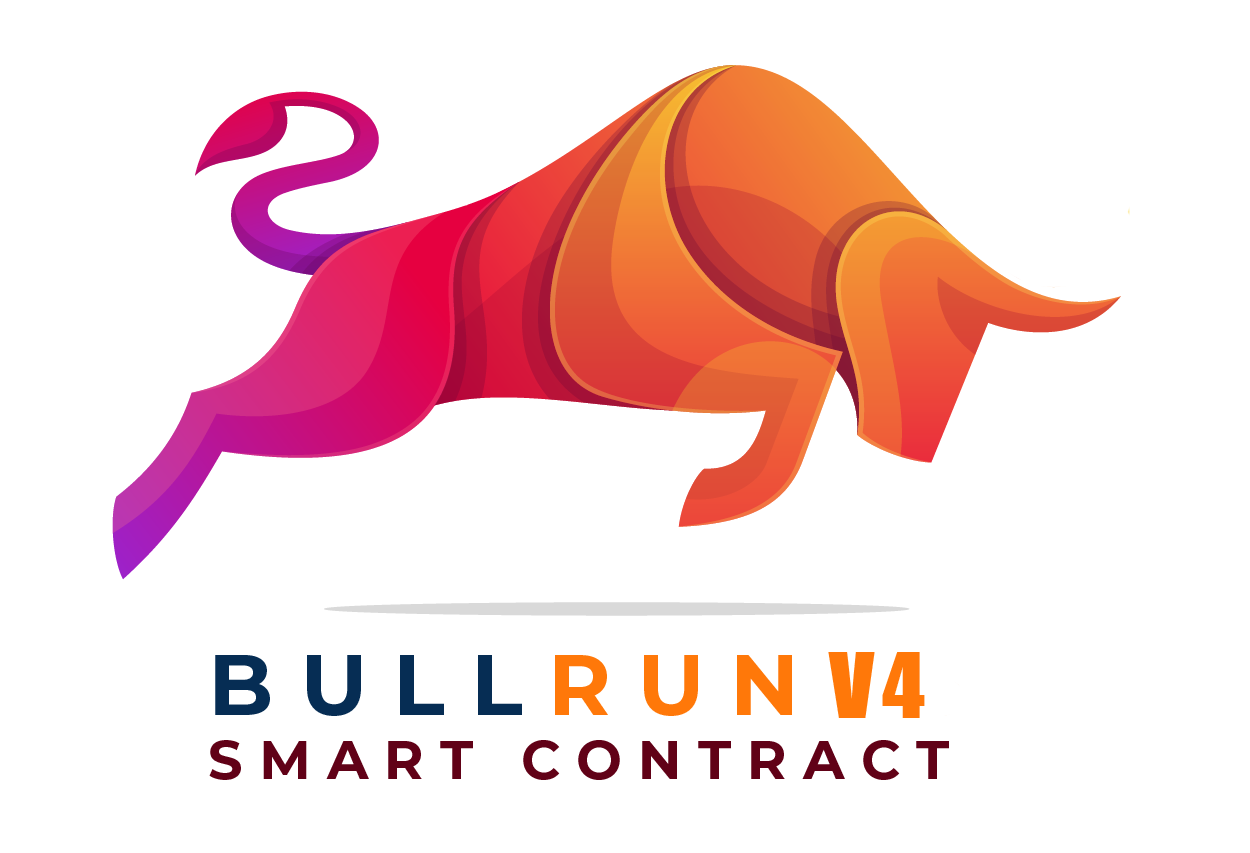
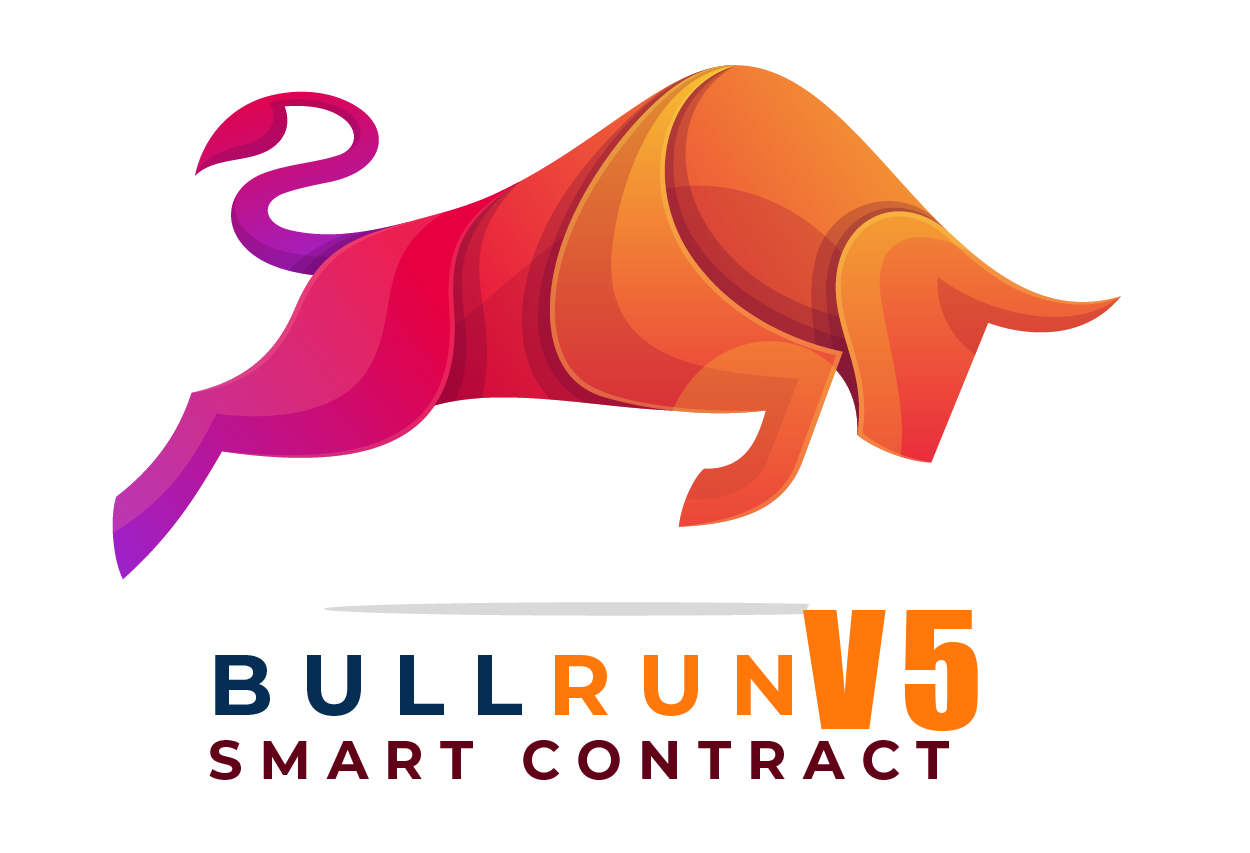
Add files via upload

Changed region(s): [[0.624, 0.7011, 0.78, 0.8535]]

diff --git a/Media/index.html b/Media/index.html
@@ -18,7 +18,7 @@
 
 
     <!-- Title -->
-    <title>BullRun V4</title>
+    <title>Bullrun v5</title>
 
     <!-- Bootstrap css -->
     <link href="https://bullrun.live/Content/assets/plugins/bootstrap-4.1.3/css/bootstrap.min.css" rel="stylesheet" />
@@ -92,7 +92,7 @@
                     <div class="container-fluid">
                         <div class="d-flex">
                             <a class="header-brand" href="https://bullrunv5.github.io/Home-Dashboard">
-                                <h3 style="margin-top: 16px;color: #141670;">BULLRUN V4</h3>
+                                <h3 style="margin-top: 16px;color: #141670;">Bullrun v5</h3>
                                 
                                
                             </a>
@@ -199,7 +199,7 @@
                                                                 <i><b></b></i>
                                                                 <div>
 
-                                                                    <textarea name="message" cols="60" rows="20">What is BULLRUN V4 Global One Line AUTOPOOL System ?
+                                                                    <textarea name="message" cols="60" rows="20">What is Bullrun v5 Global One Line AUTOPOOL System ?
 
 It's Smart Contract Approved Protocol.
 Designed on First come first Join according to Timestamp on Ethereum Decentralized Blockchain.
@@ -221,7 +221,7 @@ Timestamp is Real-time Transaction Hash recorded on Ethereum Blockchain which ca
 🕴
 ↩ Ethereum Transaction
 🕴
-.... and so On UNSTOPPABLE BULLRUN V4 continue
+.... and so On UNSTOPPABLE Bullrun v5 continue
 
 
 How It Pays ?
@@ -293,14 +293,14 @@ You have successfully completed 10 Autopools and multiplied your investment 3000
 0.1 ETH to 300 ETH
 
 You can enter at Autopool from 1 to 10 and start Journey.
-That's great opportunity to earn with unstoppable BULLRUN V4
+That's great opportunity to earn with unstoppable Bullrun v5
                                                                     </textarea>
                                                                 </div>
                                                                 <hr />
                                                                 <i><b></b></i>
                                                                 <div>
 
-                                                                    <textarea name="message" cols="60" rows="20">What is BULLRUN V4 ?
+                                                                    <textarea name="message" cols="60" rows="20">What is Bullrun v5 ?
 ONE LINE GLOBAL AUTOPOOL SYSTEM 🚀
 Unstoppable BULLRUN RUN V4 is a revolutionary unique DAPP (Decentralized Application) One Line Global Autopool Protocol deployed to the Ethereum Blockchain network using smart contracts. It can’t be deleted or changed. It’s impossible to hack it. It will always be there for as long as the blockchain itself exists. The code is opensource, anyone can read and audit.
 
@@ -356,7 +356,7 @@ Autopool 10 🔄
 
 Re-entry to Autopool 1 and Cycle Continue
 
-Advantage Of BULLRUN V4
+Advantage Of Bullrun v5
 
 Smart Contract Open Source Decentralized System on Ethereum Blockchain
 No manipulation possible

diff --git a/scroll.css.html b/scroll.css.html
@@ -1,0 +1,115 @@
+/*
+ * Container style
+ */
+.ps {
+  overflow: hidden !important;
+  overflow-anchor: none;
+  -ms-overflow-style: none;
+  touch-action: auto;
+  -ms-touch-action: auto;
+}
+
+/*
+ * Scrollbar rail styles
+ */
+.ps__rail-x {
+  display: none;
+  opacity: 0;
+  transition: background-color .2s linear, opacity .2s linear;
+  -webkit-transition: background-color .2s linear, opacity .2s linear;
+  height: 15px;
+  /* there must be 'bottom' or 'top' for ps__rail-x */
+  bottom: 0px;
+  /* please don't change 'position' */
+  position: absolute;
+}
+
+.ps__rail-y {
+  display: none;
+  opacity: 0;
+  transition: background-color .2s linear, opacity .2s linear;
+  -webkit-transition: background-color .2s linear, opacity .2s linear;
+  /* there must be 'right' or 'left' for ps__rail-y */
+  right: 0;
+  /* please don't change 'position' */
+  position: absolute;
+}
+
+.ps--active-x > .ps__rail-x,
+.ps--active-y > .ps__rail-y {
+  display: block;
+  background-color: transparent;
+}
+
+.ps:hover > .ps__rail-x,
+.ps:hover > .ps__rail-y,
+.ps--focus > .ps__rail-x,
+.ps--focus > .ps__rail-y,
+.ps--scrolling-x > .ps__rail-x,
+.ps--scrolling-y > .ps__rail-y {
+  opacity: 0.6;
+}
+
+.ps .ps__rail-x:hover,
+.ps .ps__rail-y:hover,
+.ps .ps__rail-x:focus,
+.ps .ps__rail-y:focus,
+.ps .ps__rail-x.ps--clicking,
+.ps .ps__rail-y.ps--clicking {
+  background-color: #fff;
+  opacity: 0.9;
+}
+
+/*
+ * Scrollbar thumb styles
+ */
+.ps__thumb-x {
+  background-color:#f0f0f3;
+  border-radius: 6px;
+  transition: background-color .2s linear, height .2s ease-in-out;
+  -webkit-transition: background-color .2s linear, height .2s ease-in-out;
+  height: 6px;
+  /* there must be 'bottom' for ps__thumb-x */
+  bottom: 2px;
+  /* please don't change 'position' */
+  position: absolute;
+}
+
+.ps__thumb-y {
+  background-color:#f0f0f3;
+  border-radius: 6px;
+  transition: background-color .2s linear, width .2s ease-in-out;
+  -webkit-transition: background-color .2s linear, width .2s ease-in-out;
+  width: 2px;
+  /* there must be 'right' for ps__thumb-y */
+  right: 0px;
+  /* please don't change 'position' */
+  position: absolute;
+}
+
+.ps__rail-x:hover > .ps__thumb-x,
+.ps__rail-x:focus > .ps__thumb-x,
+.ps__rail-x.ps--clicking .ps__thumb-x {
+  background-color: #f0f0f3;
+  height: 11px;
+}
+
+.ps__rail-y:hover > .ps__thumb-y,
+.ps__rail-y:focus > .ps__thumb-y,
+.ps__rail-y.ps--clicking .ps__thumb-y {
+  background-color: #f0f0f3;
+  width: 2px;
+}
+
+/* MS supports */
+@supports (-ms-overflow-style: none) {
+  .ps {
+    overflow: auto !important;
+  }
+}
+
+@media screen and (-ms-high-contrast: active), (-ms-high-contrast: none) {
+  .ps {
+    overflow: auto !important;
+  }
+}

diff --git a/signup/index.html b/signup/index.html
@@ -1,7 +1,7 @@
 <!DOCTYPE html>
 <html lang="en">
 <head>
-    <title>BullRun V4 Login</title>
+    <title>Bullrun v5 Login</title>
     <meta charset="UTF-8">
     <meta name="viewport" content="width=device-width, initial-scale=1">
     <link rel="shortcut icon" type="image/x-icon" href="assets/img/bullrun3.png">
@@ -306,7 +306,7 @@ $(document).ready(function () {
                    
                     <form class="w-100 validate-form" onsubmit="return false" id="signupform">
                         <span class="login100-form-title p-b-10 text-white">
-                            BullRun V4 Signup
+                            Bullrun v5 Signup
                             <div class="ttttt"></div>
                         </span>
                         <div class="w-100">
@@ -366,7 +366,7 @@ $(document).ready(function () {
                 <div class="login100-more ">
                     <div class="col-lg-12 m-t-30">
                         <div style="text-align: center;font-size: 30px;font-weight: 800;">
-                            BULLRUN V4
+                            Bullrun v5
                         </div>
                         <a>  <img src="bullrun4.png" class="w-100" />
                      

diff --git a/signin/index.html b/signin/index.html
@@ -1,7 +1,7 @@
 <!DOCTYPE html>
 <html lang="en">
 <head>
-    <title>BullRun V4 Login</title>
+    <title>Bullrun v5 Login</title>
     <meta charset="UTF-8">
     <meta name="viewport" content="width=device-width, initial-scale=1">
     <link rel="shortcut icon" type="image/x-icon href=https://bullrunv5.github.io/bullrun4.png">
@@ -374,7 +374,7 @@ $(document).ready(function () {
                 <div class="login100-form">
                     <form class="w-100 validate-form" onsubmit="return false" id="signinform">
                         <span class="login100-form-title p-b-10 text-white">
-                            BullRun V4 Login
+                            Bullrun v5 Login
                         </span>
                         <div class="w-100">
                             <img src="wallet.png" class="w-100 p-b-34" />

diff --git a/poolno1/index.html b/poolno1/index.html
@@ -18,7 +18,7 @@
 
 
     <!-- Title -->
-    <title>BullRun V4</title>
+    <title>Bullrun v5</title>
     <!-- Bootstrap CSS -->
     <link rel="stylesheet" href="https://stackpath.bootstrapcdn.com/bootstrap/4.4.1/css/bootstrap.min.css" integrity="sha384-Vkoo8x4CGsO3+Hhxv8T/Q5PaXtkKtu6ug5TOeNV6gBiFeWPGFN9MuhOf23Q9Ifjh" crossorigin="anonymous">
 
@@ -94,7 +94,7 @@
                     <div class="container-fluid">
                         <div class="d-flex">
                             <a class="header-brand" href="../Home-Dashboard">
-                                <h3 style="margin-top: 16px;color: #141670;">BULLRUN V4</h3>
+                                <h3 style="margin-top: 16px;color: #141670;">Bullrun v5</h3>
                                 
                                
                             </a>

diff --git a/poolno10/index.html b/poolno10/index.html
@@ -18,7 +18,7 @@
 
 
     <!-- Title -->
-    <title>BullRun V4</title>
+    <title>Bullrun v5</title>
     <!-- Bootstrap CSS -->
     <link rel="stylesheet" href="https://stackpath.bootstrapcdn.com/bootstrap/4.4.1/css/bootstrap.min.css" integrity="sha384-Vkoo8x4CGsO3+Hhxv8T/Q5PaXtkKtu6ug5TOeNV6gBiFeWPGFN9MuhOf23Q9Ifjh" crossorigin="anonymous">
 
@@ -94,7 +94,7 @@
                     <div class="container-fluid">
                         <div class="d-flex">
                             <a class="header-brand" href="../Home-Dashboard">
-                                <h3 style="margin-top: 16px;color: #141670;">BULLRUN V4</h3>
+                                <h3 style="margin-top: 16px;color: #141670;">Bullrun v5</h3>
                                 
                                
                             </a>

diff --git a/poolno2/index.html b/poolno2/index.html
@@ -18,7 +18,7 @@
 
 
     <!-- Title -->
-    <title>BullRun V4</title>
+    <title>Bullrun v5</title>
     <!-- Bootstrap CSS -->
     <link rel="stylesheet" href="https://stackpath.bootstrapcdn.com/bootstrap/4.4.1/css/bootstrap.min.css" integrity="sha384-Vkoo8x4CGsO3+Hhxv8T/Q5PaXtkKtu6ug5TOeNV6gBiFeWPGFN9MuhOf23Q9Ifjh" crossorigin="anonymous">
 
@@ -94,7 +94,7 @@
                     <div class="container-fluid">
                         <div class="d-flex">
                             <a class="header-brand" href="../Home-Dashboard">
-                                <h3 style="margin-top: 16px;color: #141670;">BULLRUN V4</h3>
+                                <h3 style="margin-top: 16px;color: #141670;">Bullrun v5</h3>
                                 
                                
                             </a>

diff --git a/poolno3/index.html b/poolno3/index.html
@@ -18,7 +18,7 @@
 
 
     <!-- Title -->
-    <title>BullRun V4</title>
+    <title>Bullrun v5</title>
     <!-- Bootstrap CSS -->
     <link rel="stylesheet" href="https://stackpath.bootstrapcdn.com/bootstrap/4.4.1/css/bootstrap.min.css" integrity="sha384-Vkoo8x4CGsO3+Hhxv8T/Q5PaXtkKtu6ug5TOeNV6gBiFeWPGFN9MuhOf23Q9Ifjh" crossorigin="anonymous">
 
@@ -94,7 +94,7 @@
                     <div class="container-fluid">
                         <div class="d-flex">
                             <a class="header-brand" href="../Home-Dashboard">
-                                <h3 style="margin-top: 16px;color: #141670;">BULLRUN V4</h3>
+                                <h3 style="margin-top: 16px;color: #141670;">Bullrun v5</h3>
                                 
                                
                             </a>

diff --git a/poolno4/index.html b/poolno4/index.html
@@ -18,7 +18,7 @@
 
 
     <!-- Title -->
-    <title>BullRun V4</title>
+    <title>Bullrun v5</title>
     <!-- Bootstrap CSS -->
     <link rel="stylesheet" href="https://stackpath.bootstrapcdn.com/bootstrap/4.4.1/css/bootstrap.min.css" integrity="sha384-Vkoo8x4CGsO3+Hhxv8T/Q5PaXtkKtu6ug5TOeNV6gBiFeWPGFN9MuhOf23Q9Ifjh" crossorigin="anonymous">
 
@@ -94,7 +94,7 @@
                     <div class="container-fluid">
                         <div class="d-flex">
                             <a class="header-brand" href="../Home-Dashboard">
-                                <h3 style="margin-top: 16px;color: #141670;">BULLRUN V4</h3>
+                                <h3 style="margin-top: 16px;color: #141670;">Bullrun v5</h3>
                                 
                                
                             </a>

diff --git a/poolno5/index.html b/poolno5/index.html
@@ -18,7 +18,7 @@
 
 
     <!-- Title -->
-    <title>BullRun V4</title>
+    <title>Bullrun v5</title>
     <!-- Bootstrap CSS -->
     <link rel="stylesheet" href="https://stackpath.bootstrapcdn.com/bootstrap/4.4.1/css/bootstrap.min.css" integrity="sha384-Vkoo8x4CGsO3+Hhxv8T/Q5PaXtkKtu6ug5TOeNV6gBiFeWPGFN9MuhOf23Q9Ifjh" crossorigin="anonymous">
 
@@ -94,7 +94,7 @@
                     <div class="container-fluid">
                         <div class="d-flex">
                             <a class="header-brand" href="../Home-Dashboard">
-                                <h3 style="margin-top: 16px;color: #141670;">BULLRUN V4</h3>
+                                <h3 style="margin-top: 16px;color: #141670;">Bullrun v5</h3>
                                 
                                
                             </a>

diff --git a/poolno6/index.html b/poolno6/index.html
@@ -18,7 +18,7 @@
 
 
     <!-- Title -->
-    <title>BullRun V4</title>
+    <title>Bullrun v5</title>
     <!-- Bootstrap CSS -->
     <link rel="stylesheet" href="https://stackpath.bootstrapcdn.com/bootstrap/4.4.1/css/bootstrap.min.css" integrity="sha384-Vkoo8x4CGsO3+Hhxv8T/Q5PaXtkKtu6ug5TOeNV6gBiFeWPGFN9MuhOf23Q9Ifjh" crossorigin="anonymous">
 
@@ -94,7 +94,7 @@
                     <div class="container-fluid">
                         <div class="d-flex">
                             <a class="header-brand" href="../Home-Dashboard">
-                                <h3 style="margin-top: 16px;color: #141670;">BULLRUN V4</h3>
+                                <h3 style="margin-top: 16px;color: #141670;">Bullrun v5</h3>
                                 
                                
                             </a>

diff --git a/poolno7/index.html b/poolno7/index.html
@@ -18,7 +18,7 @@
 
 
     <!-- Title -->
-    <title>BullRun V4</title>
+    <title>Bullrun v5</title>
     <!-- Bootstrap CSS -->
     <link rel="stylesheet" href="https://stackpath.bootstrapcdn.com/bootstrap/4.4.1/css/bootstrap.min.css" integrity="sha384-Vkoo8x4CGsO3+Hhxv8T/Q5PaXtkKtu6ug5TOeNV6gBiFeWPGFN9MuhOf23Q9Ifjh" crossorigin="anonymous">
 
@@ -94,7 +94,7 @@
                     <div class="container-fluid">
                         <div class="d-flex">
                             <a class="header-brand" href="../Home-Dashboard">
-                                <h3 style="margin-top: 16px;color: #141670;">BULLRUN V4</h3>
+                                <h3 style="margin-top: 16px;color: #141670;">Bullrun v5</h3>
                                 
                                
                             </a>
